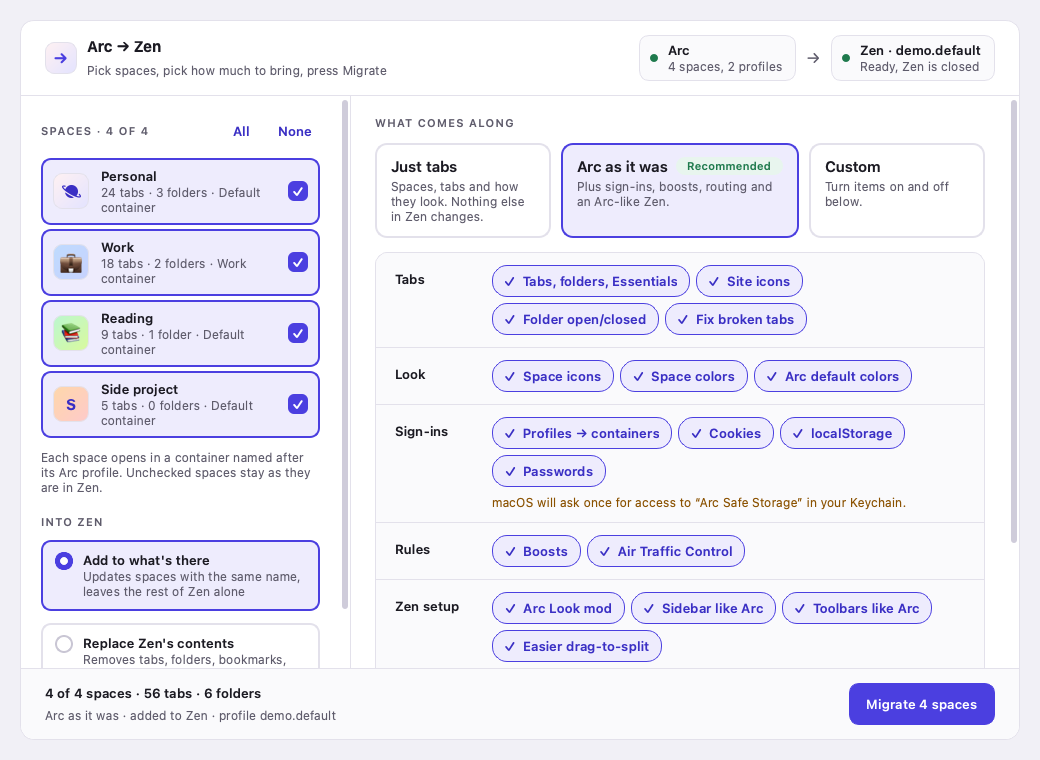
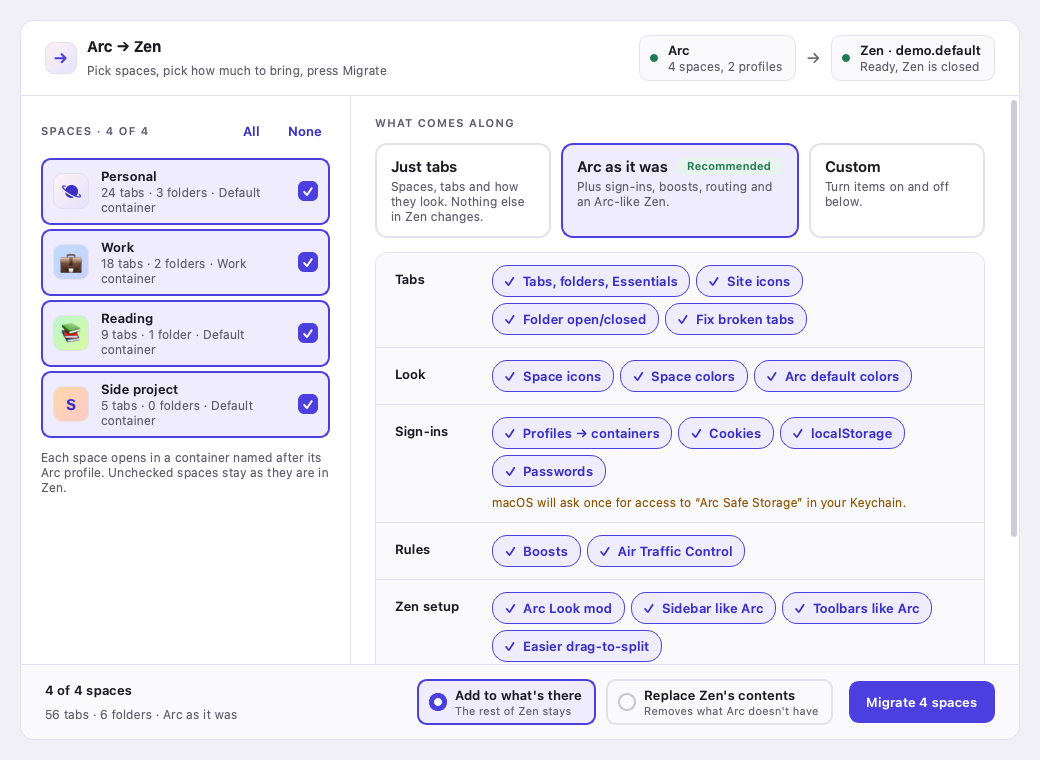
Put the add/replace choice next to the Migrate button
With many spaces the add/replace choice at the bottom of the spaces column
scrolled out of view, so it was easy to migrate without noticing it. The
choice is now a pair of compact cards in the footer, right before the
Migrate button, and stays visible however long the spaces list gets. Each
card has a short caption with the full explanation on hover. While a
replacing migration waits for confirmation, the cards step aside for the
warning; Cancel brings them back.

Changed region(s): [[0.0308, 0.1211, 0.3385, 0.9684], [0.4, 0.8776, 0.8, 0.9684], [0.8308, 0.8776, 0.9538, 0.9382]]

diff --git a/src/arc2zen/desktop.py b/src/arc2zen/desktop.py
@@ -650,20 +650,23 @@ class PresetCard(Clickable):
 
 
 class ModeCard(Clickable):
-    """A radio card for how the spaces land in Zen: added, or replacing its contents."""
+    """A compact radio card next to the Migrate button: spaces added to Zen, or replacing its contents."""
 
-    def __init__(self, title: str, hint: str, danger: bool = False):
+    def __init__(self, title: str, subtitle: str, hint: str, danger: bool = False):
         super().__init__("Mode", title)
         self.danger = danger
         self.setProperty("danger", "true" if danger else "false")
+        self.setToolTip(hint)
         self.radio = QLabel()
         self.radio.setFixedSize(18, 18)
         self.title = label(title)
+        caption = label(subtitle)
+        caption.setStyleSheet(f"color: {MUTED}; font-size: 11px;")
         layout = QHBoxLayout(self)
-        layout.setContentsMargins(12, 10, 12, 10)
-        layout.setSpacing(10)
-        layout.addWidget(self.radio, 0, Qt.AlignTop)
-        layout.addLayout(text_column(self.title, label(hint, "small", wrap=True)), 1)
+        layout.setContentsMargins(10, 6, 12, 6)
+        layout.setSpacing(8)
+        layout.addWidget(self.radio, 0, Qt.AlignVCenter)
+        layout.addLayout(text_column(self.title, caption))
 
     def set_checked(self, checked: bool) -> None:
         color = DANGER if self.danger else ACCENT
@@ -671,7 +674,8 @@ class ModeCard(Clickable):
             f"background: {WINDOW}; border: 5px solid {color}; border-radius: 9px;"
             if checked else f"background: transparent; border: 1.5px solid {OFF}; border-radius: 9px;"
         )
-        self.title.setStyleSheet(f"font-weight: 600; color: {DANGER if checked and self.danger else TEXT};")
+        self.title.setStyleSheet(
+            f"font-size: 13px; font-weight: 600; color: {DANGER if checked and self.danger else TEXT};")
         super().set_checked(checked)
 
 
@@ -930,17 +934,6 @@ class MainWindow(QMainWindow):
         layout.addWidget(label(
             "Each space opens in a container named after its Arc profile. "
             "Unchecked spaces stay as they are in Zen.", "small", wrap=True))
-
-        layout.addSpacing(8)
-        layout.addWidget(label("INTO ZEN", "caps"))
-        self.add_mode = ModeCard("Add to what's there", "Updates spaces with the same name, leaves the rest of Zen alone")
-        self.replace_mode = ModeCard(
-            "Replace Zen's contents", "Removes tabs, folders, bookmarks, workspaces and containers Arc doesn't have",
-            danger=True)
-        self.add_mode.clicked.connect(lambda: self.set_value("nuke", False))
-        self.replace_mode.clicked.connect(lambda: self.set_value("nuke", True))
-        layout.addWidget(self.add_mode)
-        layout.addWidget(self.replace_mode)
         layout.addStretch(1)
 
         outer = QVBoxLayout(aside)
@@ -1086,6 +1079,17 @@ class MainWindow(QMainWindow):
         self.summary_title.setStyleSheet("font-weight: 600;")
         self.summary_text = label("", "small", wrap=True)
         layout.addLayout(text_column(self.summary_title, self.summary_text), 1)
+        self.add_mode = ModeCard(
+            "Add to what's there", "The rest of Zen stays",
+            "Updates spaces with the same name, leaves the rest of Zen alone")
+        self.replace_mode = ModeCard(
+            "Replace Zen's contents", "Removes what Arc doesn't have",
+            "Removes tabs, folders, bookmarks, workspaces and containers Arc doesn't have", danger=True)
+        self.add_mode.clicked.connect(lambda: self.set_value("nuke", False))
+        self.replace_mode.clicked.connect(lambda: self.set_value("nuke", True))
+        layout.addWidget(self.add_mode)
+        layout.addWidget(self.replace_mode)
+        layout.addSpacing(6)
         self.cancel_button = QPushButton("Cancel")
         self.cancel_button.clicked.connect(self.cancel_confirm)
         self.restart_button = QPushButton("Start over")
@@ -1299,9 +1303,8 @@ class MainWindow(QMainWindow):
         tabs = sum(space.tabs for space in chosen)
         folders = sum(space.folders for space in chosen)
         preset_name = {key: title for key, title, _, _ in PRESETS}[preset]
-        title = f"{len(chosen)} of {count(len(self.space_rows), 'space')} · {count(tabs, 'tab')} · {count(folders, 'folder')}"
-        text = (f"{preset_name} · {'replaces Zen’s contents' if v['nuke'] else 'added to Zen'}"
-                f" · profile {self.zen_target()}")
+        title = f"{len(chosen)} of {count(len(self.space_rows), 'space')}"
+        text = f"{count(tabs, 'tab')} · {count(folders, 'folder')} · {preset_name}"
         color = MUTED
         if not chosen:
             text, color = "Pick at least one space.", WARN
@@ -1325,6 +1328,9 @@ class MainWindow(QMainWindow):
         self.aside_fade.setOpacity(1.0 if idle else 0.5)
         self.arc_endpoint.setEnabled(idle)
         self.zen_endpoint.setEnabled(idle)
+        # While confirming the warning needs the room; Cancel brings the choice back
+        self.add_mode.setVisible(idle and not self.confirming)
+        self.replace_mode.setVisible(idle and not self.confirming)
         self.cancel_button.setVisible(idle and self.confirming)
         self.restart_button.setVisible(self.finished)
         self.go_button.setVisible(idle)

diff --git a/README.md b/README.md
@@ -44,8 +44,7 @@ Everything is on one screen:
   with their status; click either to pick another one.
 - **Spaces** (left): pick the Arc spaces to migrate; each row shows the
   space's icon, colors, tab and folder counts, and the container it will open
-  in. Below, choose whether the spaces are **added to what's there** or
-  **replace Zen's contents** (clean rebuild: removes what Arc doesn't have).
+  in.
 - **What comes along** (right): one click on a preset, **Just tabs** (spaces,
   tabs and how they look) or **Arc as it was** (also sign-ins, boosts,
   Air Traffic Control and an Arc-like Zen), or turn single items on and off,
@@ -53,8 +52,10 @@ Everything is on one screen:
   backups, closing Zen automatically and the `Orphaned` workspace. Only the
   Zen running the target profile is closed; Zen windows of other profiles keep
   running.
-- **Footer**: what will happen in one line and the **Migrate** button; a
-  replacing migration asks for confirmation right there. During the run the
+- **Footer**: how many spaces, tabs and folders go, whether they are **added
+  to what's there** or **replace Zen's contents** (clean rebuild: removes what
+  Arc doesn't have), and the **Migrate** button; a replacing migration asks for
+  confirmation right there. During the run the
   right side shows a status per step, the reason under a failed step, and the
   full log on demand.
 

diff --git a/AGENTS.md b/AGENTS.md
@@ -67,9 +67,9 @@ Use `--nuke-only` to perform only that cleanup. Backups are controlled by
     space selection (`--space`, `--list-spaces`), and optional migration elements.
 
 - `src/arc2zen/desktop.py`
-  - PySide6 single window around the shared migration orchestrator: spaces and
-    the add/replace choice on the left, presets and option chips on the right,
-    a summary with the Migrate button in the footer; chips map one-to-one to
+  - PySide6 single window around the shared migration orchestrator: spaces on
+    the left, presets and option chips on the right, a summary, the add/replace
+    choice and the Migrate button in one footer row; chips map one-to-one to
     `MigrationOptions` fields (`CATEGORIES`, `SAFETY`, presets in `PRESETS`).
   - Space rows come from `space_overview.arc_space_overview()`; built-in
     Arc icons are drawn from the installed Zen's `omni.ja`
